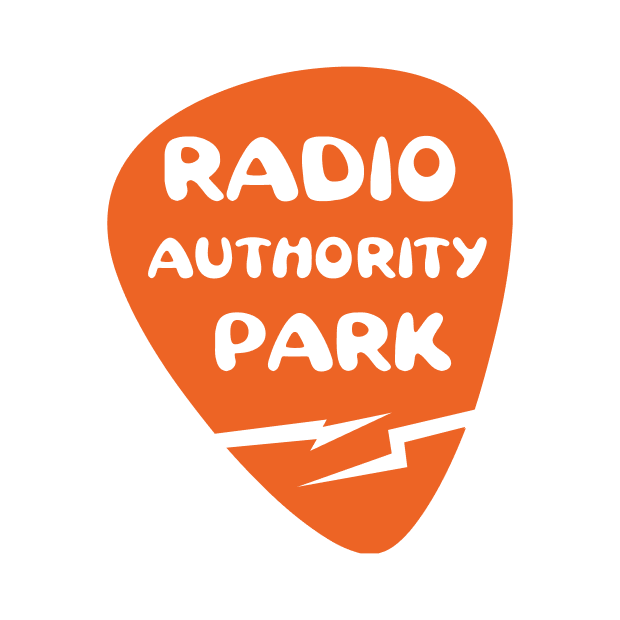
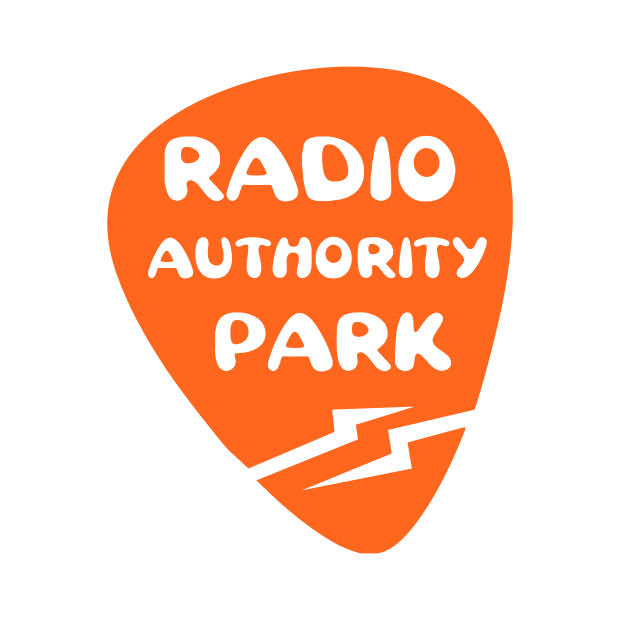
cabinet: radio: Update illustrations & use same width
* Update to artworks v2
* Use common width for horz displays (class="horz")
* Also update typos

Changed region(s): [[0.3371, 0.6435, 0.6742, 0.7968]]

diff --git a/docs/authority/radio/index.html b/docs/authority/radio/index.html
@@ -79,7 +79,7 @@
     <table class="tg">
       <thead><tr>
         <th class="tg-0lax"><a href="independence-pop-fm"><img src="img/table/pop.png" alt="Independence Pop FM" width="100%"></a></th>
-        <th class="tg-0lax"><a href="the-authority-rock-radio"><img src="img/table/rock.png" alt="The Authority Rock Radio" width="100%"></a></th>
+        <th class="tg-0lax"><div class="light"><a href="the-authority-rock-radio"><img src="img/table/rock.png" alt="The Authority Rock Radio" width="100%"></a></div><div class="dark"><a href="the-authority-rock-radio"><img src="img/table/rock_dark.png" alt="The Authority Rock Radio" width="100%"></a></div>
         <th class="tg-0lax"><a href="the-labs-x-fm-001"><img src="img/table/labs.png" alt="The Labs X FM" width="100%"></a></th>
         <th class="tg-0lax"><a href="radio-authority-park"><img src="img/table/silverlake.png" alt="Radio Authority Park" width="100%"></a></th></tr>
       </thead>

diff --git a/docs/authority/radio/the-labs-x-fm-001/index.html b/docs/authority/radio/the-labs-x-fm-001/index.html
@@ -57,10 +57,10 @@
   <!-- Logo variations -->
   <div class="horz">
     <div class="light">
-      <img src="_logo.png" alt="The Labs X FM" width="25%">
+      <img src="_logo.png" alt="The Labs X FM" width="32%">
     </div>
     <div class="dark">
-      <img src="_logo_dark.png" alt="The Labs X FM" width="25%">
+      <img src="_logo.png" alt="The Labs X FM" width="32%">
     </div>
   </div>
   <div class="vert">
@@ -68,7 +68,7 @@
       <img src="_logo.png" width="100%">
     </div>
     <div class="dark">
-      <img src="_logo_dark.png" width="100%">
+      <img src="_logo.png" width="100%">
     </div>
   </div>
 

diff --git a/docs/authority/radio/the-authority-rock-radio/index.html b/docs/authority/radio/the-authority-rock-radio/index.html
@@ -56,10 +56,10 @@
   <!-- Logo variations -->
   <div class="horz">
     <div class="light">
-      <img src="_logo.png" alt="The Authority Rock Radio" width="38%">
+      <img src="_logo.png" alt="The Authority Rock Radio" width="40%">
     </div>
     <div class="dark">
-      <img src="_logo_dark.png" alt="The Authority Rock Radio" width="38%">
+      <img src="_logo_dark.png" alt="The Authority Rock Radio" width="40%">
     </div>
   </div>
   <div class="vert">

diff --git a/docs/authority/radio/independence-pop-fm/index.html b/docs/authority/radio/independence-pop-fm/index.html
@@ -57,10 +57,10 @@
   <!-- Logo variations -->
   <div class="horz">
     <div class="light">
-      <img src="_logo.png" alt="Independence Pop FM" width="25%">
+      <img src="_logo.png" alt="Independence Pop FM" width="32%">
     </div>
     <div class="dark">
-      <img src="_logo.png" alt="Independence Pop FM" width="25%">
+      <img src="_logo.png" alt="Independence Pop FM" width="32%">
     </div>
   </div>
   <div class="vert">

diff --git a/docs/authority/radio/the-jazz-hall/index.html b/docs/authority/radio/the-jazz-hall/index.html
@@ -56,10 +56,10 @@
   <!-- Logo variations -->
   <div class="horz">
     <div class="light">
-      <img src="_logo.png" alt="The Jazz Hall" width="35%">
+      <img src="_logo.png" alt="The Jazz Hall" width="32%">
     </div>
     <div class="dark">
-      <img src="_logo_dark.png" alt="The Jazz Hall" width="35%">
+      <img src="_logo_dark.png" alt="The Jazz Hall" width="32%">
     </div>
   </div>
   <div class="vert">

diff --git a/docs/authority/radio/radio-authority-park/index.html b/docs/authority/radio/radio-authority-park/index.html
@@ -63,7 +63,7 @@
 
   <h3 id="information">Information</h3>
   <ul>
-    <li><b>Location:</b> Madrid, Spain</li>
+    <li><b>Location:</b> Alcorcón, Spain</li>
     <li><b>Genre:</b> Spanish Indie</li>
     <li><b>Songs:</b> 26</li>
     <li><b>Frequency:</b> 95.8 FM</li>
